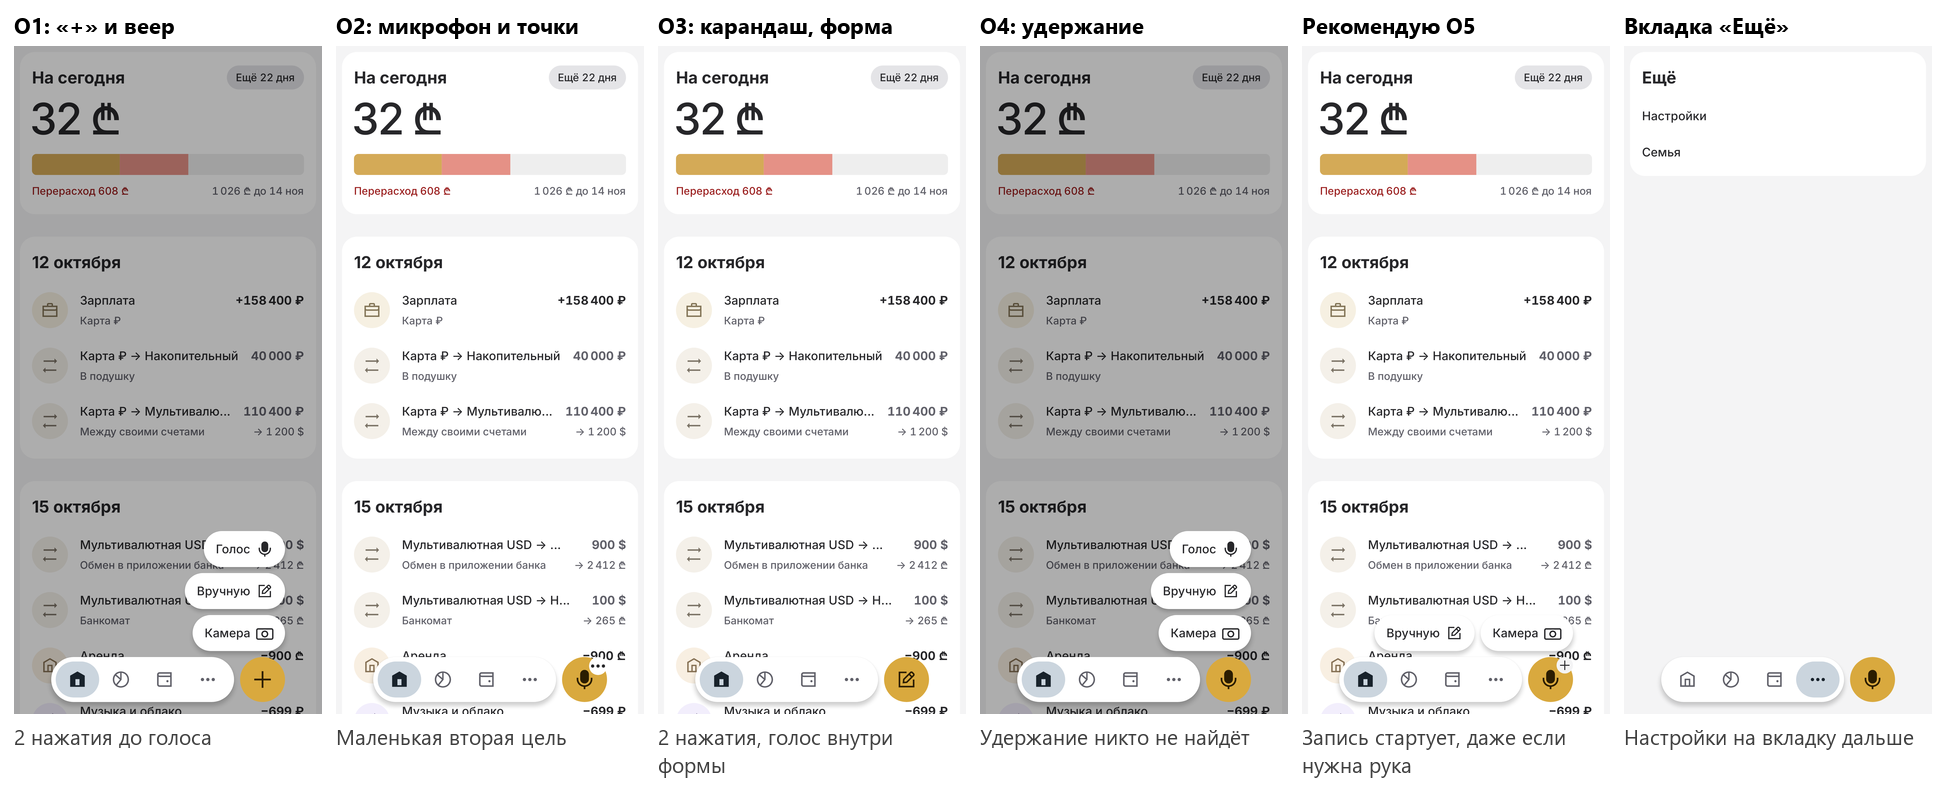
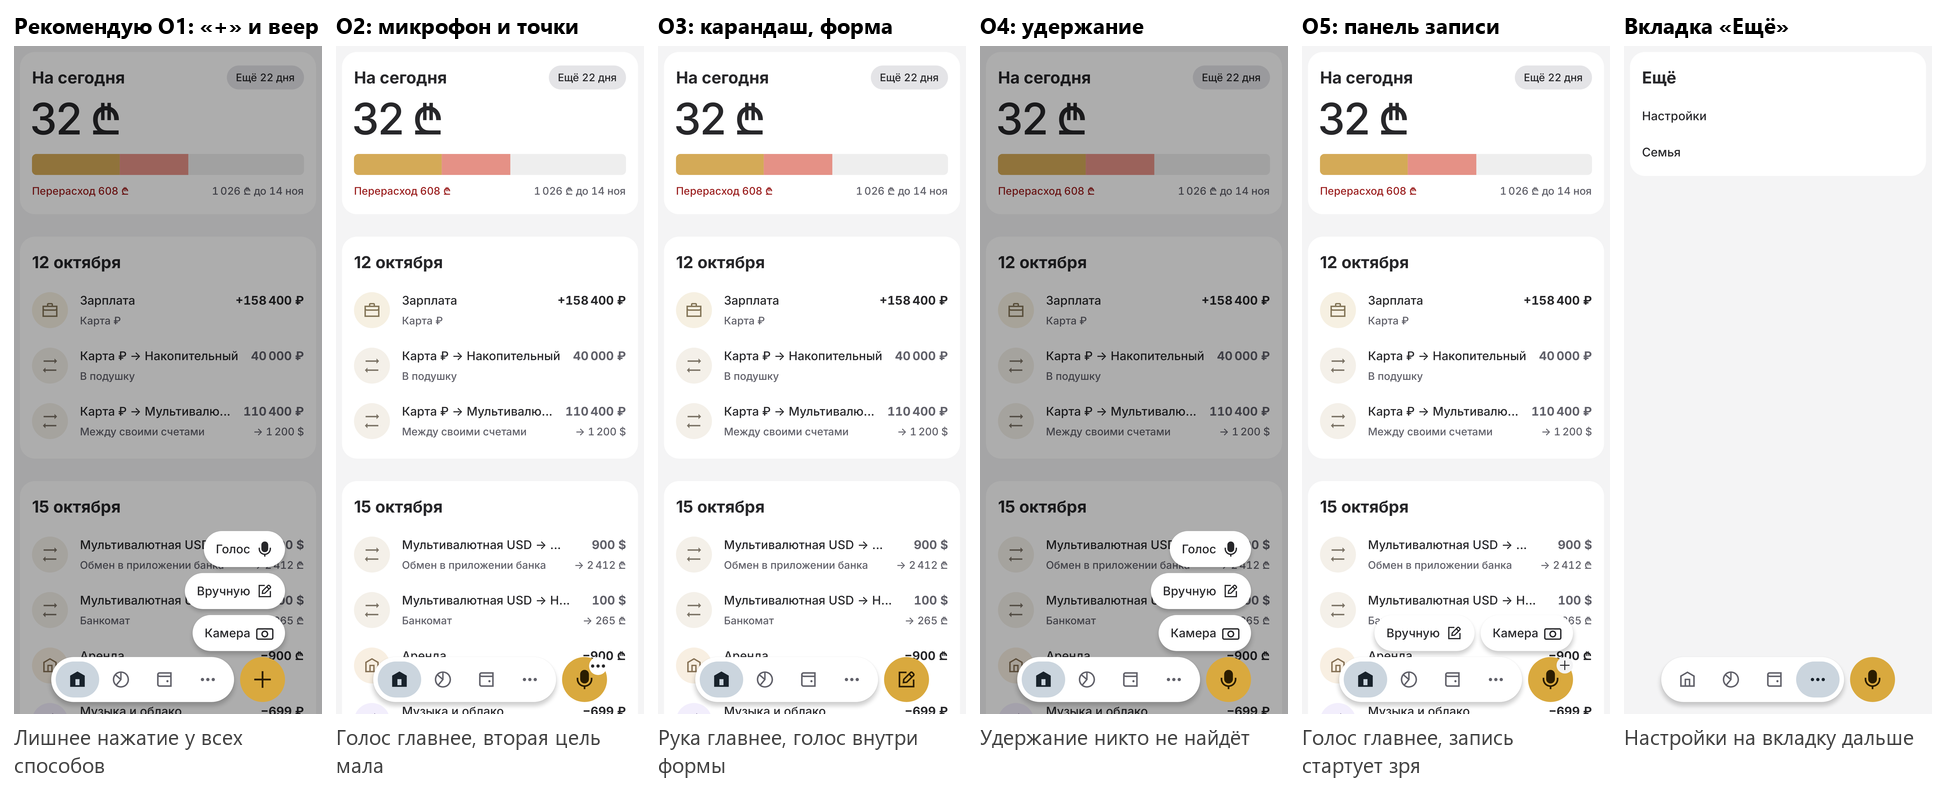
Tasks: the island judged with all ways of entry equal

diff --git a/docs/tasks/analytics-contours.md b/docs/tasks/analytics-contours.md
@@ -725,7 +725,7 @@
 - **3:** ширина честная, сумма выходит на соседа; зазор режет цифру при малых долях.
 - **4, свой:** одна полоса без зазора, заливка честной ширины, суммы поверх. Сумме не мешает ничего.
 
-Островок: четыре вкладки и главная кнопка. Нажатий до голоса: О1 два, О2 один, О3 два, О4 один, О5 один.
+Островок: четыре вкладки и главная кнопка. Пользователь: голос не главная фишка, главная — продуманность; способы записи равны. Поэтому рекомендация О1: один символ «добавить», все способы видны и равны, новый способ встаёт в веер без перестройки. Цена: лишнее нажатие у всех.
 
 - **О1, «+» и веер:** все способы видны, голос теряет первое нажатие.
 - **О2, микрофон и точки:** голос в одно нажатие, вторая цель мала и рядом с первой.
@@ -736,7 +736,7 @@
 
 ## Вопросы
 0. **Полоса с суммами:** столбцы 1–4? Кадр `r44-tiles.png`, рекомендация 4.
-0. **Островок:** О1–О5 и вкладка «Ещё»? Кадр `r44-island.png`, рекомендация О5.
+0. **Островок:** О1–О5 и вкладка «Ещё»? Кадр `r44-island.png`, рекомендация О1.
 0. **Значок «Разбора»:** искра подходит?
 0. **Легенда:** Л1, Л2 или Л3? «Подробнее»: текст, вся область или значок? Кадр `r13-income.png`.
 0. Второй круг, рекомендации:
